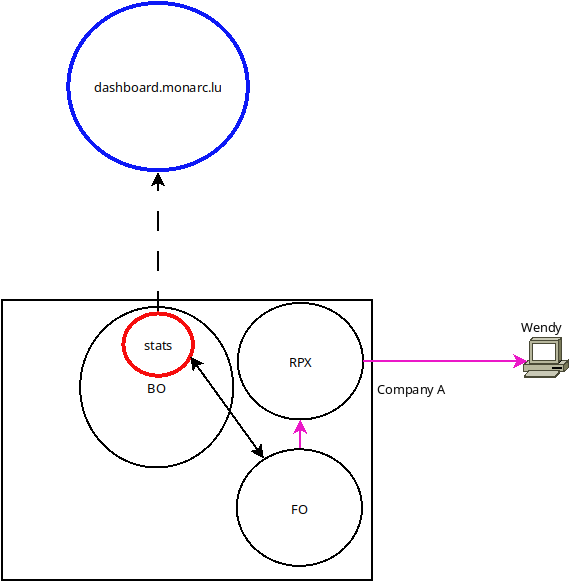
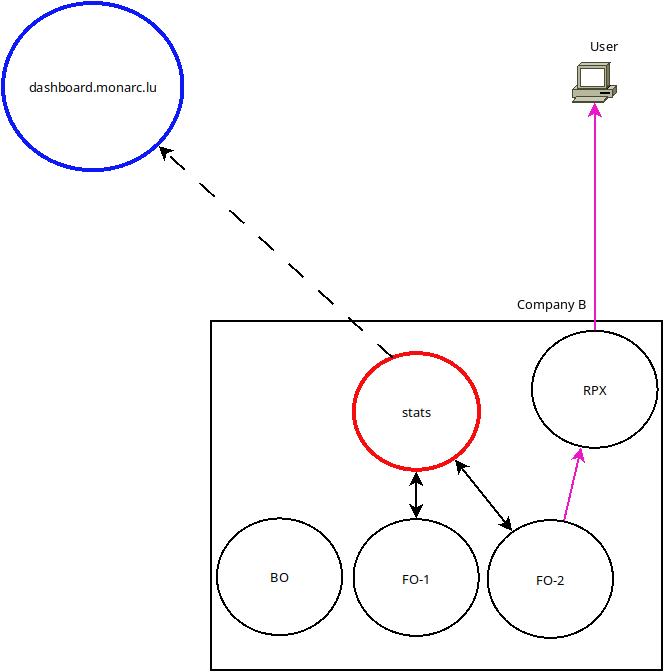
chg: [documentation] updated documentation for Stats Service.

diff --git a/content/documentation/stats-service/searchindex.js b/content/documentation/stats-service/searchindex.js
@@ -1,1 +1,1 @@
-Search.setIndex({docnames:["api-v1","architecture","command-line-interface","index","installation","logging","root","stats","updates"],envversion:{"sphinx.domains.c":2,"sphinx.domains.changeset":1,"sphinx.domains.citation":1,"sphinx.domains.cpp":3,"sphinx.domains.index":1,"sphinx.domains.javascript":2,"sphinx.domains.math":2,"sphinx.domains.python":2,"sphinx.domains.rst":2,"sphinx.domains.std":2,sphinx:56},filenames:["api-v1.rst","architecture.rst","command-line-interface.rst","index.rst","installation.rst","logging.rst","root.rst","stats.rst","updates.rst"],objects:{},objnames:{},objtypes:{},terms:{"000847":4,"057adb3d":2,"05abfe1":4,"0800277f0571":7,"100":7,"11e9":7,"127":[0,4,7],"148c35e1":2,"155f4501d70c":2,"1819":4,"183221":4,"192735":2,"1a60":2,"1eeb":2,"200":0,"201":0,"2020":[0,2,3,5,7],"2021":[3,4],"204":0,"21b6":2,"248":5,"27t09":2,"286effded2c7":2,"28fb":2,"2a8876b1fed":5,"2b0e":5,"2c2f":2,"365":7,"3821":2,"3fa0646b50da":4,"401":0,"4039":2,"404":0,"404b":2,"4064":2,"4082":2,"4129":5,"4172":2,"420c":2,"4228":2,"42a2":2,"4323":2,"445c":2,"448a":2,"4576":7,"4588":2,"4591":7,"45f3":2,"461a":2,"464e":2,"49e6":4,"49fd":2,"4b38":2,"4b5d":2,"4da5":2,"4e475a48e6a3":2,"4f04":2,"5000":[0,4,7],"556226":2,"55d0ffa30367":2,"5617161e":2,"57d48fa23c40":2,"5d42a1cd9202":2,"5f57":2,"6066f816":2,"63138250":2,"6501d616":2,"658965":2,"69fbfe14":7,"69fbfe5f":7,"6a0650392e3a":2,"6c7abd243e23":2,"6e4cd1aaad06":2,"6e4cd1aaad07":2,"701245":2,"727943":2,"7351":2,"7837":2,"7914":2,"7bb21fc8":2,"7cd7a696bc15":2,"7fd9df45":2,"7tuiltvivhbz2yoc9mopnmwzzoxdrf9k2cbo8rgs4ep_0xsr0e0qca_jsqyjhxgaaq":2,"80d41da314cf":2,"8116":2,"836d":2,"847ad5d28058":2,"8691b29afbc5":4,"877m":8,"8848":2,"888ec025b35f":2,"894":5,"8c66":2,"8f023e31":2,"90624dfc":2,"9173":7,"93bb":2,"9617":2,"96b6":2,"9884":2,"9a1a":2,"9d4c":2,"boolean":[0,2],"c\u00e9dric":3,"case":[1,2,3,4],"default":[2,5,7],"export":4,"function":[1,4],"import":[2,4],"new":[0,2,4],"public":[0,3,7],"return":[0,1,2,3,7],"static":8,"true":[0,2,4],"try":4,"var":[4,5],"while":2,Age:2,And:[1,4],But:1,FOR:3,For:[0,3,4],Not:1,TLS:2,The:[0,1,2,3,4,5,7],There:4,These:[0,1],Use:2,WITH:4,Will:[2,8],__file__:4,__init__:0,_th16p6:4,a2disconf:4,a4042860656b:2,a40a:2,a40d:2,a60a:2,a6e6:2,a820:2,a9c6:2,aaaded6:2,aab5:2,abl:[1,2],about:[0,1,4,6],about_json:6,about_mor:6,accept:[0,2],access:2,account:[0,1],accross:0,activ:4,activate_thi:4,add:4,adding:4,addit:0,addition:4,addon:4,address:[1,2],adjust:4,admin:[2,4],administr:2,advantag:2,adversari:2,ae36f643c6f:2,ae8:2,affect:0,affero:[0,3],after:4,against:2,aggreg:[0,1,3],agpl:0,aim:1,alemb:8,alert:4,all:[0,1,4],allof:0,allow:2,along:3,alreadi:[4,8],also:[0,1,2,4,7],alter:4,altern:1,alwai:[1,4],amount:0,analysi:[0,1],android:2,ani:[0,2,3],anr:0,apache2:[4,8],api:[1,3,4,5],api_v1_root:4,apikei:0,app:4,appli:0,applic:[0,2,4],appropri:4,apt:4,architectur:2,area:1,arrai:0,asctim:5,ask:2,aspect:2,asset:4,assum:8,att:2,attack:2,attest:2,attribut:2,audit:8,authent:7,author:[0,2],automat:2,avail:[0,2,3,4],averag:0,averager:7,avoid:2,b141135f:2,b34d:5,b402d4e0:7,b402d523:7,b4c6f28a:4,b5c5:2,b5jj2tvj:4,b7ad:2,b83d:2,ba0e:2,back:1,backend:1,base:[0,2,3],basepath:0,bash:4,bashrc:4,bb91:2,been:[2,4],befor:2,behavior:2,behaviour:0,behind:1,being:2,below:0,between:2,bf06:4,bin:4,bit:4,block:2,blueprint:0,bodi:0,bonhomm:3,boot:2,bootload:2,bootstrap:4,box:1,branch:8,bring:2,buildpack:4,built:2,button:4,c08b514bc785:2,c591b8fd:2,cach:4,call:0,can:[0,1,2,3,4,5,8],capabl:2,cartographi:0,caseslu:4,cat:4,catalog:8,categori:[0,2],caution:2,cedric:4,central:2,ceo:1,cfg:4,cgi:4,chart:[3,6],check:[2,4],choic:1,chosen:4,circl:2,ckyjvxjy4ygdhtdgjauw1ohnth79osm3ozlevzeo3grcea:2,client:[1,4,5],client_coordinates_set:2,client_coordinates_unset:2,client_creat:[0,2,4],client_delet:2,client_get:0,client_list:[2,4],client_patch:0,client_sharing_activ:2,client_sharing_deactiv:2,clone:4,code:2,collect:[1,2,3],com:[3,4,8],combin:4,command:[0,4,5],comment:[6,7],commit:4,commun:[1,2],compani:1,compil:8,complianc:0,compos:[0,4],compromis:2,concern:0,conf:4,config:4,configur:[1,2,4,5],confirm:2,connect:[1,4],consum:0,content:[0,4],context:8,contrib:[4,8],control:2,coordin:2,copi:3,copyright:3,corpor:2,could:2,council:2,count:[0,2,7],creat:[0,4],create_stat:0,createus:4,creation:4,crit:4,cron:[1,2,4],cryptograph:2,csric:2,ctrl:4,curl:[0,4,7],current:[0,1,3,7,8],custom:[4,7],customlog:4,cybersecur:[1,3],cz2n40vod7bkirp5k0tlkanqk:2,daa42611:2,dai:7,dashboard:[0,1,3,4],data:[0,1,4],databas:4,date:[0,2,8],date_from:0,date_to:0,db_creat:[2,4],db_empti:2,db_init:[2,4],dc6c:2,ddl:8,debian:4,debug:4,decentr:1,dedic:[0,1,3],defin:[0,5],definit:0,delet:0,delete_stat:0,demo:4,depend:[4,8],deploi:[1,2,3,4],describ:2,descript:[0,2,4],desir:2,detach:4,detail:[3,8],detect:2,deter:2,dev:4,develop:[2,4],devic:2,diagram:1,dict:4,differ:[0,1,2,3],directli:[0,2],directori:4,disabl:4,discourag:4,discov:2,displai:2,distribut:[2,3,4],documentroot:4,duplic:5,dynam:0,each:0,easili:0,echo:[0,4],either:3,element:0,emerg:4,emm:2,empti:2,enabl:[0,2,4],encrypt:[2,4],endpoint:[0,6,7],ensur:2,enterpris:2,env:4,environ:4,error:[0,4,5],errorlog:4,especi:4,etc:4,evad:2,evalu:0,even:3,eventu:2,evolut:6,exampl:[2,4,5,8],exec:4,execstart:4,execut:[2,4],exist:2,exit:2,expect:5,explain:0,exploit:2,f0acd38ae41f:2,f3caa83b:2,f490f727:2,f4bbe273:2,fail:2,fals:2,fb5odbndwzgia7srm_q:2,fb9b4d21:2,fbccda8cc583:2,featur:3,fecea306:5,fetch:0,fetch_head:8,field:0,file:[0,2,4,5,8],file_:4,filter:[2,3],first:0,fit:3,flash:2,flask:[2,4],flask_app:4,flask_env:4,fo1:1,fo2:1,focus:1,follow:[1,4,5],followsymlink:4,format:[0,5,7],found:[0,8],foundat:3,fr_fr:8,free:3,from:[0,1,2,3,5,8],front:[1,4],funcnam:5,fund:8,futur:1,g7gjfo__vodo5a:4,gather:1,gener:[0,1,3,4],get:[4,6,7],get_last:0,get_processor_list:0,get_stat:0,git:4,github:[3,8],githubusercont:4,given:[0,2],global:[1,2,4],gnu:[0,3],goal:7,good:[1,2],grant:[2,4],group:4,group_by_anr:0,guid:4,guidanc:2,gunicorn:4,has:[1,2,4],have:[0,2,3,4,8],header:0,help:[2,4,6],henc:2,here:[1,4],herokuapp:4,high:[0,7],hobbi:4,home:[4,6],honor:0,hope:3,host:[1,4],hostnam:4,how:4,howev:1,html:0,http:[0,2,3,4,7],human:6,idea:1,identifi:[0,2],impl:8,impli:3,improv:2,inappropri:2,includ:[2,4],info:[0,4,8],inform:[0,3,4,7],initi:4,inspect:2,instal:[1,2,8],instanc:[1,2,3,4],instance_url:4,integ:[0,2],integr:2,interconnect:2,interfac:4,intern:0,interoper:2,introduc:2,invas:2,ir1kpdoh94m8aocv5curu5rokwxs8m6le5m96gklf1ar6wbrogl_bfnddpv_amrejapvsgfynecp8thbxy108w:2,is_sharing_en:[0,2],issu:[3,4],item:0,its:[1,2],jailbroken:2,job:[1,4],journalctl:4,json:[0,4,6,7],json_object:2,juan:3,just:[3,4],kei:0,kind:0,known:2,knox:2,label:2,landscap:3,languag:2,last_upd:2,later:[3,4],latest:4,latitud:2,layer:2,lazi:4,lc_messag:8,level:4,levelnam:5,lib:0,libr:3,licens:0,like:0,limit:[0,2],line:4,lineno:5,linux:4,list:0,list_stat:0,lku_1wxkd4ta1q:4,load:4,local:[1,2,4],local_stats_onli:0,localhost:4,locat:0,lock:[2,8],log_format:5,login:4,loglevel:4,longitud:2,look:[0,8],lot:0,low:[0,7],luxembourg:1,m1001:2,m1002:2,m1003:2,m1004:2,m1005:2,m1006:2,m1007:2,m1009:2,m1010:2,m1011:2,m1012:2,m1013:2,m1014:2,machin:1,mai:[2,4],main:[0,6],malici:2,manag:2,mask:0,maskerror:0,master:[4,8],maxrisk:7,mdm:2,mechan:2,medium:[0,7],merchant:3,messag:[2,5,8],metada:0,metadata:[0,2],method:[2,3,4,6,7],might:[0,4],migrat:8,mitig:2,mitr:2,mobil:2,mode:[4,7],modifi:3,moment:4,monarc:[0,1,3,8],month:2,more:[2,3,6],mosp_is_object_publish:2,most:4,multi:4,must:[0,1,2,4],name:[0,2,4,5],namespac:0,natur:1,need:[0,4],network:[2,4],next:[1,3],node:1,node_modul:8,nodej:4,notic:4,now:8,npm:[4,8],npm_compon:8,number:[0,2],nv3gh6ue2ybckrjpjbbtuacnvrhprnibhgcvtirj5v4wavlipahiq5ig:4,object:[0,2],observ:2,occur:0,off:4,offic:[1,4],offici:3,offset:[0,2],often:2,olcdm2c9ygp7coqgz71gk1tc8lrcend8av:0,older:2,one:[3,4],onli:[0,1,2,4,7],onto:2,open:4,oper:[0,1,2,3,7],operationid:0,option:[0,1,2,3,4],order:[0,2,3],org:[0,2,3],other:[2,3],overview:0,own:1,packag:8,page:6,paramet:[0,2,7],pars:0,parseerror:0,parti:2,particular:[2,3,4],partit:2,pass:2,password:4,patch:[0,2],path:[0,4,5],payload:0,per:[0,2],perform:2,period:2,permiss:2,persist:4,php:4,pip:4,pipx:4,pkg:4,pleas:[3,4],plugabl:0,poetri:4,polici:2,posit:0,possibl:[1,4],post:[0,5],postgr:4,postgresql:4,postgresqlimpl:8,postinstal:8,potenti:2,prefer:4,prefix:4,present:[1,2],press:4,privaci:2,problem:3,process:[0,5],processing_list:0,processor:7,processor_param:0,produc:0,product:4,program:3,prohibit:2,project:[3,4,8],proper:1,properti:0,protect:2,protocol:2,provid:[0,1,2,3,4,8],provis:2,psql:4,publish:[2,3],pull:4,purpos:[0,3],push:[1,4],py3:4,pyenv:4,pypi:4,pypoetri:4,python3:4,python_hom:4,q4ulzboa_50crruc6rlysaewjzsgyspuuuounw:2,queri:[0,1],quit:4,raw:4,rddprk9_t:0,read:[4,7],readonli:0,reason:2,receiv:3,recent:2,redistribut:3,ref:[0,2],region:4,regularli:1,relat:[0,2,4],relev:1,reliabl:2,reload:4,remot:2,remote_stats_serv:1,remov:8,repli:2,report:3,reproduc:2,request:[0,2,3],requir:[0,1,2,4,7],residu:[0,7],resili:2,resolut:4,resourc:[0,2],respons:[0,2,4],restart:[4,8],result:0,rfxhrd4fdn7jqifaobe3wf6tdgts6gsic2ec8qh0dft8z2k:2,risk:[0,1,2],risk_averag:[0,7],risk_averages_on_d:[0,7],riski:2,risks_stat:0,risks_typ:0,rocha:3,role:[0,1,2,4],root:[2,4],root_bp:6,rule:[6,7],run:[1,4,8],runserv:4,runtim:8,safetynet:2,same:[1,2],samsung:2,schedul:4,schema:0,script:[4,8],section:[2,4],secur:2,securitydefinit:0,securitymadein:3,see:[1,3],select:[0,1],send:4,sensit:2,sent:[0,1,3],serv:4,server:[1,2,3,4],serveradmin:4,servernam:4,servic:[0,2,3,8],session:4,set:[1,4],setenv:4,sever:[3,4],share:[0,1,4],shell:4,should:[2,3,4],show:2,side:2,signal:2,similar:4,simpli:[1,4,8],site:4,smile:2,socket:4,softwar:[1,3],solut:4,some:[0,2,4],sophist:2,sourc:8,spawn:4,speak:4,specif:2,specifi:[0,2,4,5,7],ss7:2,ssl:4,start:4,stat:[1,3,5,6,8],statist:[0,1,3,4],stats_bp:7,stats_config:4,stats_delet:2,stats_pul:2,stats_purg:2,stats_push:2,statslist:0,statsservic:[0,4,5,8],statsservice_web:4,statu:4,stderr:5,stdin:4,storag:4,string:0,submit:0,success:0,sudo:[4,8],summar:3,summari:0,superus:4,support:0,swagger:0,sys:5,system:[2,4],systemctl:[4,8],systemd:4,tag:0,take:2,target:4,task:4,technic:4,techniqu:2,term:3,test:4,text:2,than:2,thank:1,thei:[0,2],themselv:2,thi:[0,1,2,3,4,7],thing:0,third:2,those:4,thread:4,threat:[0,2],threat_average_on_d:[0,7],tima:2,titl:0,todai:2,token:[0,2,4],total:0,trace1:4,trace8:4,traffic:2,train:2,transact:8,transfer:0,translat:8,transport:2,trend:1,trigger:[1,4],trivial:2,two:[0,1],txt:6,type:[0,2,4],ubuntu:4,under:3,uniqu:[0,2],unit:4,unlock:2,unwant:2,updat:2,url:0,usag:2,use:[0,2,4,8],used:[0,1,2,5],useful:3,user:[0,1,2,4],usernam:4,using:2,usr:4,util:0,uuid:[0,2,4],valu:[0,2,7],variabl:1,varieti:2,venv:4,verbos:2,verifi:2,version:[0,2,3,4],version_url:4,vet:2,via:[0,4],view:1,virtual:[1,4],virtualenv:4,virtualhost:4,vulner:[0,2,8],vulnerability_average_on_d:[0,7],want:[0,4],wantedbi:4,warn:[2,4],warranti:3,weak:2,web:4,webmast:4,webserv:4,well:1,wendi:1,when:[0,2],where:1,whether:2,which:[1,2,3,4],within:4,without:[2,3],won:4,work:[2,4],workingdirectori:4,wsgi:4,wsgiapplicationgroup:4,wsgidaemonprocess:4,wsgipassauthor:4,wsgiprocessgroup:4,wsgiscriptalia:4,wwqrega9ezuvh:2,www:[0,3,4],yes:2,yet:2,you:[0,1,3,4,5,8],your:[1,3,4],z4gogmy2ul2blkb1dxwb_0yhdlqcsf9p63ex:0},titles:["API v1","Architecture","Command Line Interface","Presentation","Installation","Logging","Blueprint root","Blueprint stats","Updates"],titleterms:{"import":1,access:4,activ:2,all:2,apach:4,api:0,architectur:1,blueprint:[6,7],bug:3,client:[0,2],collect:4,command:2,creat:2,creation:2,current:4,daemon:4,data:2,databas:2,deactiv:2,delet:2,deploy:4,detail:0,docker:4,drop:2,exampl:[0,1],extern:1,from:4,get:0,github:4,gnu:4,heroku:4,high:1,hub:4,index:4,initi:2,instal:4,integr:[1,4],interact:2,interfac:2,invok:0,level:1,licens:3,line:2,list:2,locat:2,log:[4,5],manag:4,mod_wsgi:4,model:0,modul:[4,5],monarc:4,mosp:[1,2],note:1,openapi:0,packag:4,prerequisit:4,present:3,processor:0,pull:2,purg:2,push:2,python:4,recommend:4,registri:4,repositori:4,risk:7,root:6,rout:[6,7],scenario:1,screen:4,secur:0,servic:[1,4],set:2,share:2,sourc:4,specif:0,stat:[0,2,4,7],threat:7,unset:2,updat:8,vulner:7,wai:4}})
+Search.setIndex({docnames:["api-v1","architecture","command-line-interface","index","installation","logging","root","stats","updates"],envversion:{"sphinx.domains.c":2,"sphinx.domains.changeset":1,"sphinx.domains.citation":1,"sphinx.domains.cpp":3,"sphinx.domains.index":1,"sphinx.domains.javascript":2,"sphinx.domains.math":2,"sphinx.domains.python":2,"sphinx.domains.rst":2,"sphinx.domains.std":2,sphinx:56},filenames:["api-v1.rst","architecture.rst","command-line-interface.rst","index.rst","installation.rst","logging.rst","root.rst","stats.rst","updates.rst"],objects:{},objnames:{},objtypes:{},terms:{"000847":4,"057adb3d":2,"05abfe1":4,"0800277f0571":7,"100":7,"11e9":7,"127":[0,4,7],"148c35e1":2,"155f4501d70c":2,"1819":4,"183221":4,"192735":2,"1a60":2,"1eeb":2,"200":0,"201":0,"2020":[0,2,3,5,7],"2021":[3,4],"204":0,"21b6":2,"248":5,"27t09":2,"286effded2c7":2,"28fb":2,"2a8876b1fed":5,"2b0e":5,"2c2f":2,"365":7,"3821":2,"3fa0646b50da":4,"401":0,"4039":2,"404":0,"404b":2,"4064":2,"4082":2,"4129":5,"4172":2,"420c":2,"4228":2,"42a2":2,"4323":2,"445c":2,"448a":2,"4576":7,"4588":2,"4591":7,"45f3":2,"461a":2,"464e":2,"49e6":4,"49fd":2,"4b38":2,"4b5d":2,"4da5":2,"4e475a48e6a3":2,"4f04":2,"5000":[0,4,7],"556226":2,"55d0ffa30367":2,"5617161e":2,"57d48fa23c40":2,"5d42a1cd9202":2,"5f57":2,"6066f816":2,"63138250":2,"6501d616":2,"658965":2,"69fbfe14":7,"69fbfe5f":7,"6a0650392e3a":2,"6c7abd243e23":2,"6e4cd1aaad06":2,"6e4cd1aaad07":2,"701245":2,"727943":2,"7351":2,"7837":2,"7914":2,"7bb21fc8":2,"7cd7a696bc15":2,"7fd9df45":2,"7tuiltvivhbz2yoc9mopnmwzzoxdrf9k2cbo8rgs4ep_0xsr0e0qca_jsqyjhxgaaq":2,"80d41da314cf":2,"8116":2,"836d":2,"847ad5d28058":2,"8691b29afbc5":4,"877m":8,"8848":2,"888ec025b35f":2,"894":5,"8c66":2,"8f023e31":2,"90624dfc":2,"9173":7,"93bb":2,"9617":2,"96b6":2,"9884":2,"9a1a":2,"9d4c":2,"boolean":[0,2],"c\u00e9dric":3,"case":[1,2,3,4],"default":[2,5,7],"export":4,"function":[1,4],"import":[2,4],"new":[0,2,4],"public":[0,3,7],"return":[0,2,3,7],"static":8,"true":[0,2,4],"try":4,"var":[4,5],"while":2,Age:2,And:[1,4],FOR:3,For:[0,3,4],Not:1,TLS:2,The:[0,1,2,3,4,5,7],There:4,These:0,Use:2,WITH:4,Will:[2,8],__file__:4,__init__:0,_th16p6:4,a2disconf:4,a4042860656b:2,a40a:2,a40d:2,a60a:2,a6e6:2,a820:2,a9c6:2,aaaded6:2,aab5:2,abl:[1,2],about:[0,1,4,6],about_json:6,about_mor:6,accept:[0,2],access:2,account:0,accross:0,activ:4,activate_thi:4,add:4,adding:4,addit:0,addition:4,addon:4,address:[1,2],adjust:4,admin:[2,4],administr:2,advantag:2,adversari:2,ae36f643c6f:2,ae8:2,affect:0,affero:[0,3],after:4,against:2,aggreg:[0,3],agpl:0,aim:1,alemb:8,alert:4,all:[0,1,4],allof:0,allow:2,along:3,alreadi:[4,8],also:[0,2,4,7],alter:4,altern:1,alwai:[1,4],amount:0,analysi:[0,1],android:2,ani:[0,2,3],anr:0,apache2:[4,8],api:[1,3,4,5],api_v1_root:4,apikei:0,app:4,appli:0,applic:[0,2,4],appropri:4,apt:4,architectur:2,area:1,arrai:0,asctim:5,ask:2,aspect:2,asset:4,assum:8,att:2,attack:2,attest:2,attribut:2,audit:8,authent:7,author:[0,2],automat:2,avail:[0,2,3,4],averag:0,averager:7,avoid:2,b141135f:2,b34d:5,b402d4e0:7,b402d523:7,b4c6f28a:4,b5c5:2,b5jj2tvj:4,b7ad:2,b83d:2,ba0e:2,back:1,backend:1,base:[0,2,3],basepath:0,bash:4,bashrc:4,bb91:2,been:[2,4],befor:2,behavior:2,behaviour:0,behind:1,being:2,below:0,between:2,bf06:4,bin:4,bit:4,block:2,blueprint:0,bodi:0,bonhomm:3,boot:2,bootload:2,bootstrap:4,box:1,branch:8,bring:2,buildpack:4,built:2,button:4,c08b514bc785:2,c591b8fd:2,cach:4,call:0,can:[0,1,2,3,4,5,8],capabl:2,cartographi:0,caseslu:4,cat:4,catalog:8,categori:[0,2],caution:2,cedric:4,central:2,cfg:4,cgi:4,chart:[3,6],check:[2,4],choic:1,chosen:4,circl:2,ckyjvxjy4ygdhtdgjauw1ohnth79osm3ozlevzeo3grcea:2,client:[1,4,5],client_coordinates_set:2,client_coordinates_unset:2,client_creat:[0,2,4],client_delet:2,client_get:0,client_list:[2,4],client_patch:0,client_sharing_activ:2,client_sharing_deactiv:2,clone:4,code:2,collect:[1,2,3],com:[3,4,8],combin:4,command:[0,4,5],comment:[6,7],commit:4,commun:[1,2],compani:1,compil:8,complianc:0,compos:[0,4],compromis:2,concern:0,conf:4,config:4,configur:[1,2,4,5],confirm:2,connect:[1,4],consum:0,content:[0,4],context:8,contrib:[4,8],control:2,coordin:2,copi:3,copyright:3,corpor:2,could:2,council:2,count:[0,2,7],creat:[0,4],create_stat:0,createus:4,creation:4,crit:4,cron:[1,2,4],cryptograph:2,csric:2,ctrl:4,curl:[0,4,7],current:[0,1,3,7,8],custom:[4,7],customlog:4,cybersecur:[1,3],cz2n40vod7bkirp5k0tlkanqk:2,daa42611:2,dai:7,dashboard:[0,1,3,4],data:[0,1,4],databas:4,date:[0,2,8],date_from:0,date_to:0,db_creat:[2,4],db_empti:2,db_init:[2,4],dc6c:2,ddl:8,debian:4,debug:4,decentr:1,dedic:[0,1,3],defin:[0,5],definit:0,delet:0,delete_stat:0,demo:4,depend:[4,8],deploi:[1,2,3,4],describ:2,descript:[0,2,4],desir:2,detach:4,detail:[3,8],detect:2,deter:2,dev:4,develop:[2,4],devic:2,diagram:1,dict:4,differ:[0,2,3],directli:[0,2],directori:4,disabl:[1,4],discourag:4,discov:2,displai:2,distribut:[2,3,4],documentroot:4,duplic:5,dynam:0,each:0,easili:0,echo:[0,4],either:3,element:0,emerg:4,emm:2,empti:2,enabl:[0,2,4],encrypt:[2,4],endpoint:[0,6,7],ensur:2,enterpris:2,env:4,environ:4,error:[0,4,5],errorlog:4,especi:4,etc:4,evad:2,evalu:0,even:3,eventu:2,evolut:6,exampl:[2,4,5,8],exec:4,execstart:4,execut:[2,4],exist:2,exit:2,expect:5,explain:0,exploit:2,f0acd38ae41f:2,f3caa83b:2,f490f727:2,f4bbe273:2,fail:2,fals:2,fb5odbndwzgia7srm_q:2,fb9b4d21:2,fbccda8cc583:2,featur:3,fecea306:5,fetch:0,fetch_head:8,field:0,file:[0,2,4,5,8],file_:4,filter:[2,3],first:0,fit:3,flash:2,flask:[2,4],flask_app:4,flask_env:4,fo1:1,fo2:1,focus:1,follow:[1,4,5],followsymlink:4,format:[0,5,7],found:[0,8],foundat:3,fr_fr:8,free:3,from:[0,1,2,3,5,8],front:[1,4],funcnam:5,fund:8,g7gjfo__vodo5a:4,gener:[0,1,3,4],get:[4,6,7],get_last:0,get_processor_list:0,get_stat:0,git:4,github:[3,8],githubusercont:4,given:[0,2],global:[1,2,4],gnu:[0,3],goal:7,good:[1,2],grant:[2,4],group:4,group_by_anr:0,guid:4,guidanc:2,gunicorn:4,has:[1,2,4],have:[0,2,3,4,8],header:0,help:[2,4,6],henc:2,here:[1,4],herokuapp:4,high:[0,7],hobbi:4,home:[4,6],honor:0,hope:3,host:[1,4],hostnam:4,how:4,howev:1,html:0,http:[0,2,3,4,7],human:6,idea:1,identifi:[0,2],impl:8,impli:3,improv:2,inappropri:2,includ:[2,4],inde:1,info:[0,4,8],inform:[0,3,4,7],initi:4,inspect:2,instal:[1,2,8],instanc:[1,2,3,4],instance_url:4,integ:[0,2],integr:2,interconnect:2,interfac:4,intern:0,interoper:2,introduc:2,invas:2,ir1kpdoh94m8aocv5curu5rokwxs8m6le5m96gklf1ar6wbrogl_bfnddpv_amrejapvsgfynecp8thbxy108w:2,is_sharing_en:[0,2],issu:[3,4],item:0,its:[1,2],jailbroken:2,job:[1,4],journalctl:4,json:[0,4,6,7],json_object:2,juan:3,just:[3,4],kei:0,kind:0,known:2,knox:2,label:2,landscap:3,languag:2,last_upd:2,later:[3,4],latest:4,latitud:2,layer:2,lazi:4,lc_messag:8,level:4,levelnam:5,lib:0,libr:3,licens:0,like:0,limit:[0,2],line:4,lineno:5,linux:4,list:0,list_stat:0,lku_1wxkd4ta1q:4,load:4,local:[1,2,4],local_stats_onli:0,localhost:4,locat:0,lock:[2,8],log_format:5,login:4,loglevel:4,longitud:2,look:[0,8],lot:0,low:[0,7],luxembourg:1,m1001:2,m1002:2,m1003:2,m1004:2,m1005:2,m1006:2,m1007:2,m1009:2,m1010:2,m1011:2,m1012:2,m1013:2,m1014:2,machin:1,mai:[2,4],main:[0,6],malici:2,manag:2,mask:0,maskerror:0,master:[4,8],maxrisk:7,mdm:2,mechan:2,medium:[0,7],merchant:3,messag:[2,5,8],metada:0,metadata:[0,2],method:[2,3,4,6,7],might:[0,4],migrat:8,mitig:2,mitr:2,mobil:2,mode:[4,7],modifi:3,moment:4,monarc:[0,1,3,8],month:2,more:[2,3,6],mosp_is_object_publish:2,most:4,multi:4,must:[0,1,2,4],name:[0,2,4,5],namespac:0,natur:1,need:[0,4],network:[2,4],next:[1,3],node:1,node_modul:8,nodej:4,notic:4,now:8,npm:[4,8],npm_compon:8,number:[0,2],nv3gh6ue2ybckrjpjbbtuacnvrhprnibhgcvtirj5v4wavlipahiq5ig:4,object:[0,2],observ:2,occur:0,off:4,offic:[1,4],offici:3,offset:[0,2],often:2,olcdm2c9ygp7coqgz71gk1tc8lrcend8av:0,older:2,one:[3,4],onli:[0,1,2,4,7],onto:2,open:4,oper:[0,1,2,3,7],operationid:0,option:[0,1,2,3,4],order:[0,2,3],org:[0,2,3],other:[2,3],overview:0,own:1,packag:8,page:6,paramet:[0,2,7],pars:0,parseerror:0,parti:2,particular:[2,3,4],partit:2,pass:2,password:4,patch:[0,2],path:[0,4,5],payload:0,per:[0,1,2],perform:2,period:2,permiss:2,persist:4,php:4,pip:4,pipx:4,pkg:4,pleas:[3,4],plugabl:0,poetri:4,polici:2,posit:0,possibl:[1,4],post:[0,5],postgr:4,postgresql:4,postgresqlimpl:8,postinstal:8,potenti:2,prefer:4,prefix:4,present:[1,2],press:4,privaci:2,problem:3,process:[0,5],processing_list:0,processor:7,processor_param:0,produc:0,product:4,program:3,prohibit:2,project:[3,4,8],proper:1,properti:0,protect:2,protocol:2,provid:[0,1,2,3,4,8],provis:2,psql:4,publish:[2,3],pull:4,purpos:[0,3],push:[1,4],py3:4,pyenv:4,pypi:4,pypoetri:4,python3:4,python_hom:4,q4ulzboa_50crruc6rlysaewjzsgyspuuuounw:2,queri:[0,1],quit:4,raw:4,rddprk9_t:0,read:[4,7],readonli:0,reason:2,receiv:3,recent:2,redistribut:3,ref:[0,2],region:4,regularli:1,relat:[0,2,4],relev:1,reliabl:2,reload:4,remot:2,remote_stats_serv:1,remov:8,repli:2,report:3,reproduc:2,request:[0,2,3],requir:[0,1,2,4,7],residu:[0,7],resili:2,resolut:4,resourc:[0,2],respons:[0,2,4],restart:[4,8],result:0,rfxhrd4fdn7jqifaobe3wf6tdgts6gsic2ec8qh0dft8z2k:2,risk:[0,1,2],risk_averag:[0,7],risk_averages_on_d:[0,7],riski:2,risks_stat:0,risks_typ:0,rocha:3,role:[0,2,4],root:[2,4],root_bp:6,rule:[6,7],run:[1,4,8],runserv:4,runtim:8,safetynet:2,same:[1,2],samsung:2,schedul:4,schema:0,script:[4,8],section:[2,4],secur:2,securitydefinit:0,securitymadein:3,see:[1,3],select:0,send:4,sensit:2,sent:[0,3],serv:4,server:[1,2,3,4],serveradmin:4,servernam:4,servic:[0,2,3,8],session:4,set:[1,4],setenv:4,sever:[3,4],share:[0,1,4],shell:4,should:[2,3,4],show:2,side:2,signal:2,similar:4,simpli:[1,4,8],site:4,smile:2,socket:4,softwar:[1,3],solut:4,some:[0,2,4],sophist:2,sourc:8,spawn:4,speak:4,specif:2,specifi:[0,2,4,5,7],ss7:2,ssl:4,start:4,stat:[1,3,5,6,8],statist:[0,1,3,4],stats_bp:7,stats_config:4,stats_delet:2,stats_pul:2,stats_purg:2,stats_push:2,statslist:0,statsservic:[0,4,5,8],statsservice_web:4,statu:4,stderr:5,stdin:4,step:1,storag:4,string:0,submit:0,success:0,sudo:[4,8],summar:3,summari:0,superus:4,support:0,swagger:0,sys:5,system:[2,4],systemctl:[4,8],systemd:4,tag:0,take:2,target:4,task:4,technic:4,techniqu:2,term:3,test:4,text:2,than:2,thank:1,thei:[0,2],themselv:2,thi:[0,1,2,3,4,7],thing:0,third:2,those:4,thread:4,threat:[0,2],threat_average_on_d:[0,7],tima:2,titl:0,todai:2,token:[0,2,4],total:0,trace1:4,trace8:4,traffic:2,train:2,transact:8,transfer:0,translat:8,transport:2,trend:1,trigger:[1,4],trivial:2,two:0,txt:6,type:[0,2,4],ubuntu:4,under:3,uniqu:[0,2],unit:4,unlock:2,unwant:2,updat:2,url:0,usag:2,use:[0,2,4,8],used:[0,2,5],useful:3,user:[0,1,2,4],usernam:4,using:2,usr:4,util:0,uuid:[0,2,4],valu:[0,2,7],variabl:1,varieti:2,venv:4,verbos:2,verifi:2,version:[0,2,3,4],version_url:4,vet:2,via:[0,4],view:1,virtual:[1,4],virtualenv:4,virtualhost:4,vulner:[0,2,8],vulnerability_average_on_d:[0,7],want:[0,4],wantedbi:4,warn:[2,4],warranti:3,weak:2,web:4,webmast:4,webserv:4,well:1,when:[0,2],where:1,whether:2,which:[1,2,3,4],within:4,without:[2,3],won:4,work:[2,4],workingdirectori:4,wsgi:4,wsgiapplicationgroup:4,wsgidaemonprocess:4,wsgipassauthor:4,wsgiprocessgroup:4,wsgiscriptalia:4,wwqrega9ezuvh:2,www:[0,3,4],yes:2,yet:2,you:[0,1,3,4,5,8],your:[1,3,4],z4gogmy2ul2blkb1dxwb_0yhdlqcsf9p63ex:0},titles:["API v1","Architecture","Command Line Interface","Presentation","Installation","Logging","Blueprint root","Blueprint stats","Updates"],titleterms:{"import":1,access:4,activ:2,all:2,apach:4,api:0,architectur:1,blueprint:[6,7],bug:3,client:[0,2],collect:4,command:2,creat:2,creation:2,current:4,daemon:4,data:2,databas:2,deactiv:2,delet:2,deploy:4,detail:0,docker:4,drop:2,exampl:[0,1],extern:1,from:4,get:0,github:4,gnu:4,heroku:4,high:1,hub:4,index:4,initi:2,instal:4,integr:[1,4],interact:2,interfac:2,invok:0,level:1,licens:3,line:2,list:2,locat:2,log:[4,5],manag:4,mod_wsgi:4,model:0,modul:[4,5],monarc:4,mosp:[1,2],note:1,openapi:0,packag:4,prerequisit:4,present:3,processor:0,pull:2,purg:2,push:2,python:4,recommend:4,registri:4,repositori:4,risk:7,root:6,rout:[6,7],scenario:1,screen:4,secur:0,servic:[1,4],set:2,share:2,sourc:4,specif:0,stat:[0,2,4,7],threat:7,unset:2,updat:8,vulner:7,wai:4}})

diff --git a/content/documentation/stats-service/architecture.html b/content/documentation/stats-service/architecture.html
@@ -237,11 +237,6 @@
      Scenario 3
     </a>
    </li>
-   <li class="toc-h3 nav-item toc-entry">
-    <a class="reference internal nav-link" href="#scenario-4">
-     Scenario 4
-    </a>
-   </li>
   </ul>
  </li>
  <li class="toc-h2 nav-item toc-entry">
@@ -278,23 +273,33 @@
 <h2>High level architecture<a class="headerlink" href="#high-level-architecture" title="Permalink to this headline">¶</a></h2>
 <img alt="Organization level" src="_images/architecture-stats-organization-level.png" />
 <p>MONARC clients hosted on FO1 and FO2 push regularly stats about risk analysis to
-a local Stats Service instance (dashboard.my.monarc.lu).</p>
-<p>A company has the possibility to <a class="reference external" href="command-line-interface.html#pushing-data">push stats</a>
-from selected clients with the same
-account on, for example, dashboard.monarc.lu. The service behind dashboard.monarc.lu
-is operated by CASES Luxembourg and aims to provide relevant data about the
-current cybersecurity trends, focused in the Luxembourg area.</p>
+a local Stats Service instance (dashboard.my.monarc.lu). This local Stats Service
+instance provides the required functionalities for the Global Dashboard of the MONARC
+clients. This step is the <strong>collection of stats</strong> and is local.</p>
+<div class="admonition note">
+<p class="admonition-title">Note</p>
+<p>The collection of stats can be disabled per analysis.</p>
+</div>
+<p>The next step is the <strong>sharing of stats</strong>. Indeed, a company has the possibility to
+<a class="reference external" href="command-line-interface.html#pushing-data">push stats</a>
+from the local Stats Service to, for example, dashboard.monarc.lu.</p>
+<div class="admonition note">
+<p class="admonition-title">Note</p>
+<p>The sharing of stats can be disabled per client.</p>
+</div>
+<p>The service behind dashboard.monarc.lu is operated by CASES Luxembourg and aims to
+provide relevant data about the current cybersecurity trends, focused in the Luxembourg area.</p>
 </div>
 <div class="section" id="examples">
 <h2>Examples<a class="headerlink" href="#examples" title="Permalink to this headline">¶</a></h2>
 <p>The following diagrams presents the idea behind the decentralized nature of
-Stats Service.</p>
+i Stats Service.</p>
 <div class="section" id="scenario-1">
 <h3>Scenario 1<a class="headerlink" href="#scenario-1" title="Permalink to this headline">¶</a></h3>
 <img alt="Stats Service API interaction with MONARC" src="_images/architecture-stats-scenario1.png" />
-<p>The Stats Service is installed on a dedicated server, gathering stats sent by the
-front office (FO). It can also return the aggregated stats to the MONARC backend (FO)
-for the dashboard of the MONARC users (with the CEO role).</p>
+<p>The Stats Service API (<em>stats</em>) is installed on the same server where the MONARC back
+office is deployed. Not on on a dedicated server. The server hosting the back office of
+MONARC is a good choice.</p>
 <div class="admonition note">
 <p class="admonition-title">Note</p>
 <p>The Stats Service only communicates with the backend of MONARC thanks to
@@ -306,21 +311,12 @@ for the dashboard of the MONARC users (with the CEO role).</p>
 <div class="section" id="scenario-2">
 <h3>Scenario 2<a class="headerlink" href="#scenario-2" title="Permalink to this headline">¶</a></h3>
 <img alt="Stats Service API interaction with MONARC" src="_images/architecture-stats-scenario2.png" />
-<p>In the company A, the difference is that Stats Service API (<em>stats</em>) is
-installed on the same server where the MONARC back office is deployed. Not on
-on a dedicated server. The server hosting the back office of MONARC is a good choice.</p>
+<p>The Stats Service is installed on a dedicated server.</p>
 </div>
 <div class="section" id="scenario-3">
 <h3>Scenario 3<a class="headerlink" href="#scenario-3" title="Permalink to this headline">¶</a></h3>
-<img alt="Stats Service API interaction with MONARC" src="_images/architecture-stats-scenario3.png" />
-<p><em>stats</em> collects data from the two MONARC front offices of the company B.
-These aggregated data can be used for the dashboard for the CEO role of MONARC
-client instances in this company. But also, in the future, for the MONARC back office.</p>
-</div>
-<div class="section" id="scenario-4">
-<h3>Scenario 4<a class="headerlink" href="#scenario-4" title="Permalink to this headline">¶</a></h3>
-<img alt="Stats Service API interaction with MONARC" src="_images/architecture-stats-scenario4.png" />
-<p>Wendy is simply connected to a MONARC front office deployed in a local
+<img alt="Stats Service API interaction with MONARC" src="_static/architecture-stats-scenario4.png" />
+<p>The user is simply connected to a MONARC front office deployed in a local
 Virtual Box instance. Stats Service (<em>stats</em>) is running next to MONARC in this virtual
 machine.</p>
 </div>
@@ -330,7 +326,7 @@ machine.</p>
 <div class="admonition note">
 <p class="admonition-title">Note</p>
 <p>In all scenario, <strong>locally collected</strong> statistics (in <em>stats</em> node)
-can optionally be sent to <a class="reference external" href="https://dashboard.monarc.lu">dashboard.monarc.lu</a> which is
+can optionally be shared with <a class="reference external" href="https://dashboard.monarc.lu">dashboard.monarc.lu</a> which is
 a global instance. It’s the same software. You can configure the
 global dashboard statistics <strong>sharing</strong> option in the
 <a class="reference external" href="https://www.monarc.lu/documentation/user-guide/#global-dashboard">General Settings / Sharing statistics</a>
